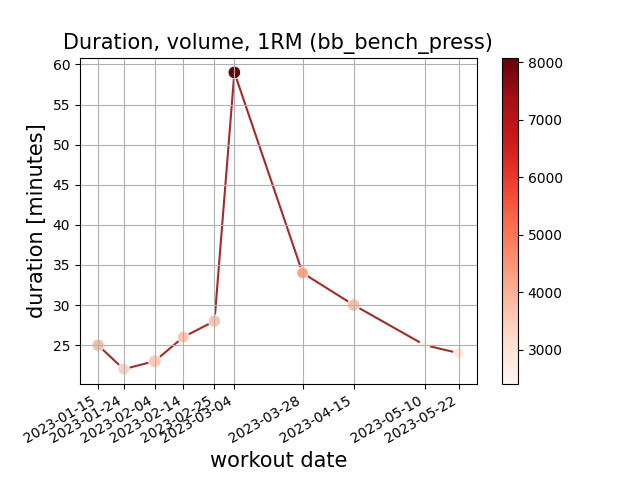
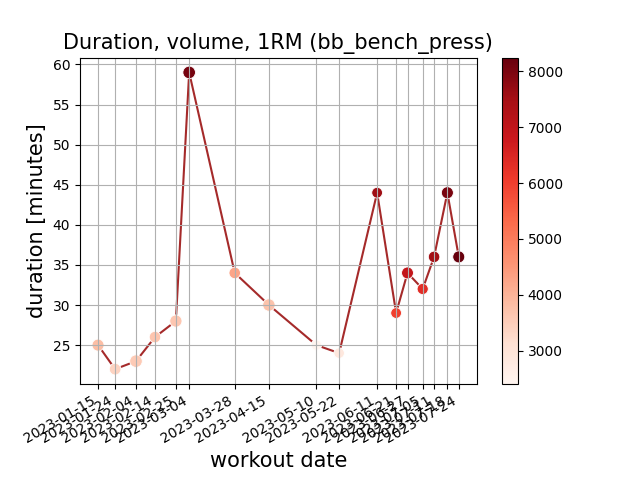
chore: add loop through months for duration plot

diff --git a/src/combined_metrics/combined_metrics.py b/src/combined_metrics/combined_metrics.py
@@ -23,6 +23,7 @@ from helpers.set_db_and_table import set_db_and_table  # type: ignore
 from helpers.get_year_and_week import get_year_and_week  # type: ignore
 from helpers.get_workout_duration import get_all_durations  # type: ignore
 from helpers.get_volume import get_total_volume  # type: ignore
+from helpers.lookup import get_year_and_month  # , Months  # type: ignore
 
 from model.model import get_data, one_rep_max_estimator, get_df  # type: ignore
 
@@ -82,21 +83,34 @@ def plot_frequency(table):
     plt.clf()
 
 
-def plot_duration(table):
+def plot_duration(table, year_to_plot, month_to_plot):
     """_summary_
 
     :param table: _description_
     :type table: _type_
     """
 
-    date_and_duration = get_all_durations()
+    _date_and_duration = get_all_durations()
+    # pp(_date_and_duration)
+    date_and_duration = dict()
+    for date, duration in _date_and_duration.items():
+        YEAR, MONTH = get_year_and_month(date)
+        if YEAR == year_to_plot and MONTH == month_to_plot:
+            # print(YEAR, MONTH)
+            date_and_duration[date] = duration
+    # pp(date_and_duration)
+
     date_and_volume = get_total_volume(table)
     volumes = [d_v[1] for d_v in date_and_volume if d_v[0] in date_and_duration.keys()]
+
     date_and_duration = {
         dt.strptime(k, "%Y-%m-%d").date(): v for k, v in date_and_duration.items()
     }
     dates = list(date_and_duration.keys())
     durations = list(date_and_duration.values())
+
+    # pp(date_and_duration)
+    # pp(date_and_volume)
 
     norm = plt.Normalize(min(volumes), max(volumes))
     sm = plt.cm.ScalarMappable(cmap="Reds", norm=norm)
@@ -104,9 +118,6 @@ def plot_duration(table):
 
     plt.gca().xaxis.set_major_formatter(mdates.DateFormatter("%Y-%m-%d"))
     plt.gca().xaxis.set_major_locator(mdates.DayLocator())
-
-    pp(date_and_duration)
-    pp(date_and_volume)
 
     ax = sns.scatterplot(x=dates, y=durations, hue=volumes, palette="Reds", s=100)
     plt.plot(dates, durations, zorder=0, c="brown")
@@ -118,11 +129,11 @@ def plot_duration(table):
     plt.grid()
     plt.xlabel("workout date", fontsize=15)
     plt.ylabel("duration [minutes]", fontsize=15)
-    plt.title("Duration and total volume [kg]", fontsize=20)
+    plt.title(f"Duration and total volume [kg] ({month_to_plot} {year_to_plot})", fontsize=17)
     plt.xticks(dates, dates)
 
     # plt.show()
-    plt.savefig("img/workout_duration.png")
+    plt.savefig(f"img/workout_duration_{month_to_plot}_{year_to_plot}.png")
     plt.clf()
 
 
@@ -138,6 +149,7 @@ def plot_duration_volume_1rm(table):
     dates = date_and_duration.keys()
     _SPLITS = [
         "push",
+        "full_body",
         # "legs",
         # "legs_and_abs",
     ]
@@ -195,19 +207,23 @@ def main() -> None:
 
     parser = argparse.ArgumentParser()
     parser.add_argument("--file_format", type=str, default='json')
+    parser.add_argument("--year_to_plot", type=str, default='2023')
+    parser.add_argument("--month_to_plot", type=str, default='July')
     parser.add_argument("--datatype", type=str, default="real")
     args = parser.parse_args()
     file_format = args.file_format  # json or yml
-    print(file_format)
-
+    # print(file_format)
     datatype = args.datatype  # real/simulated
+
+    year_to_plot = args.year_to_plot
+    month_to_plot = args.month_to_plot
 
     # datatype = "real"
     _, table, _ = set_db_and_table(datatype)
 
     plot_frequency(table)
-    plot_duration(table)
-    plot_duration_volume_1rm(table)
+    plot_duration(table, year_to_plot, month_to_plot)
+    # plot_duration_volume_1rm(table)
 
 
 if __name__ == "__main__":
